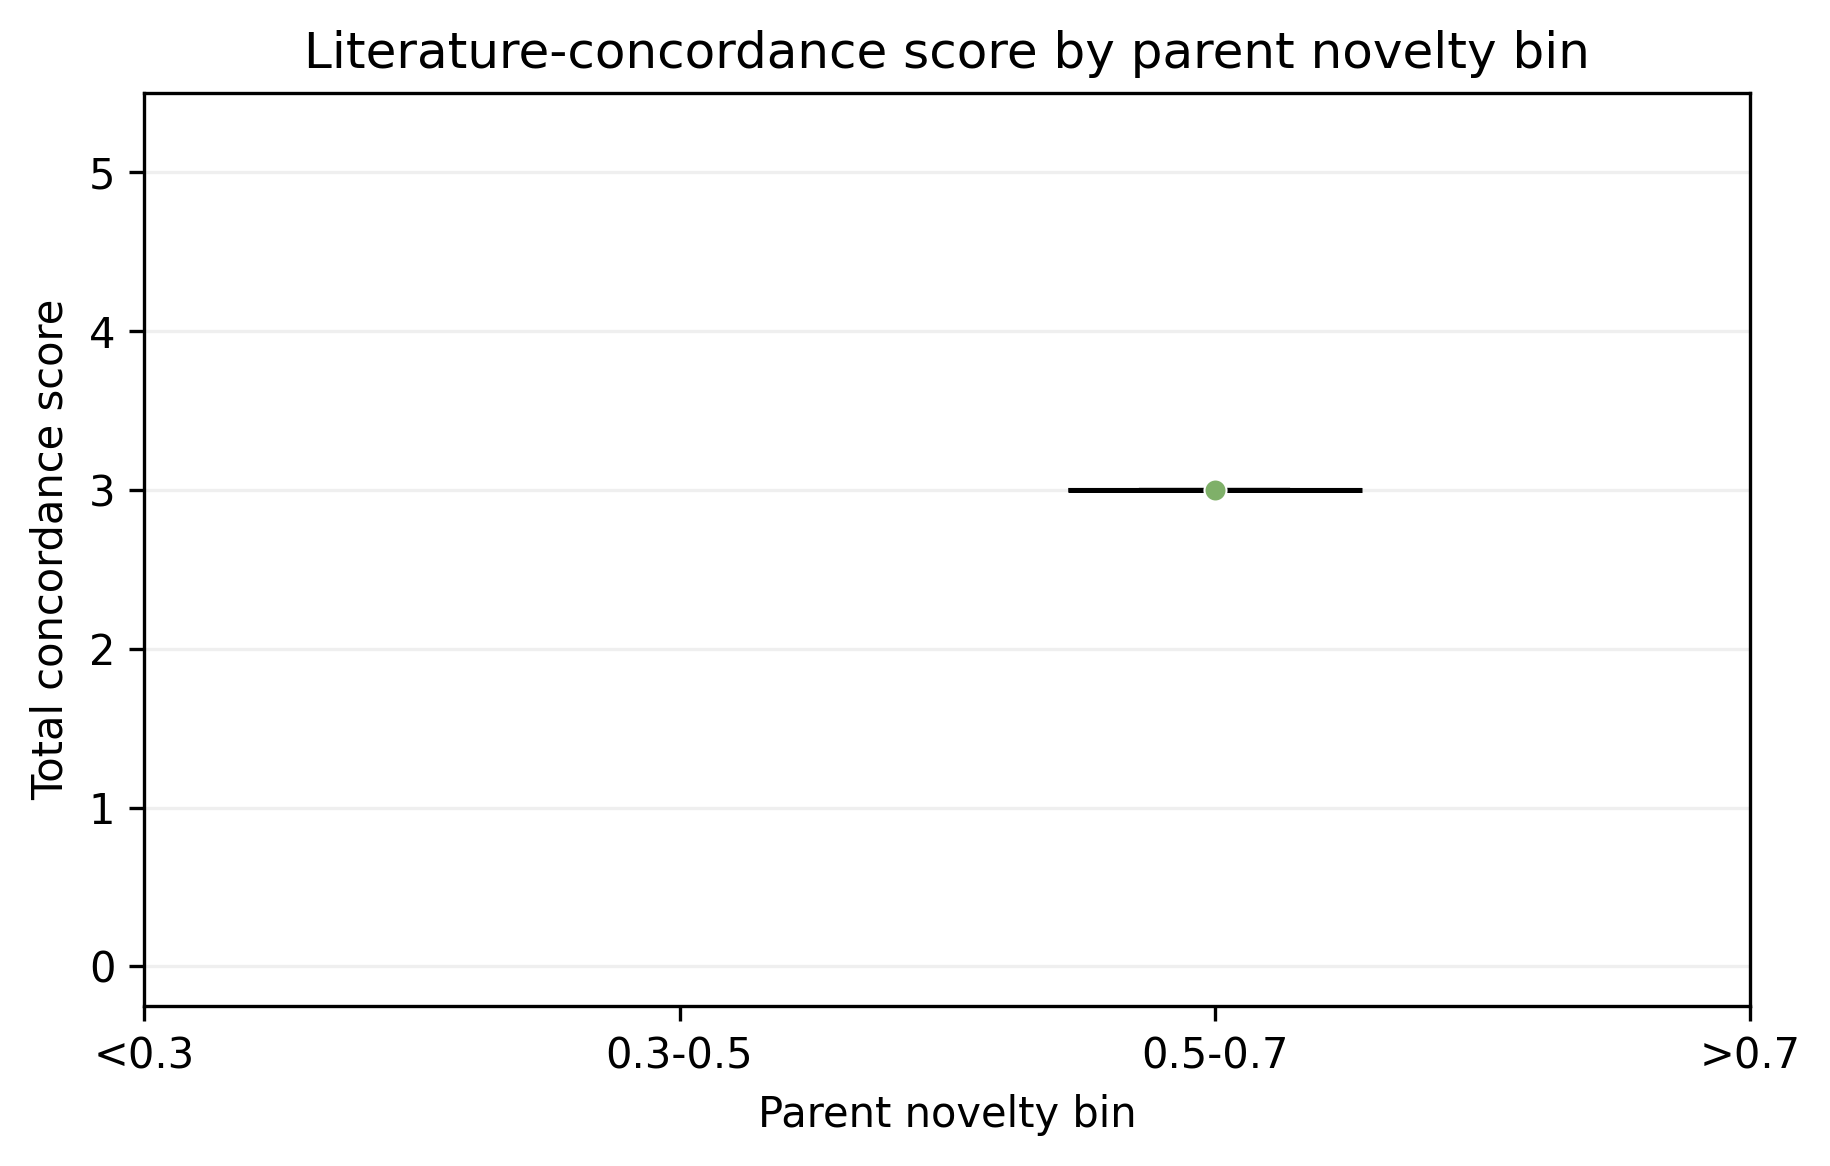
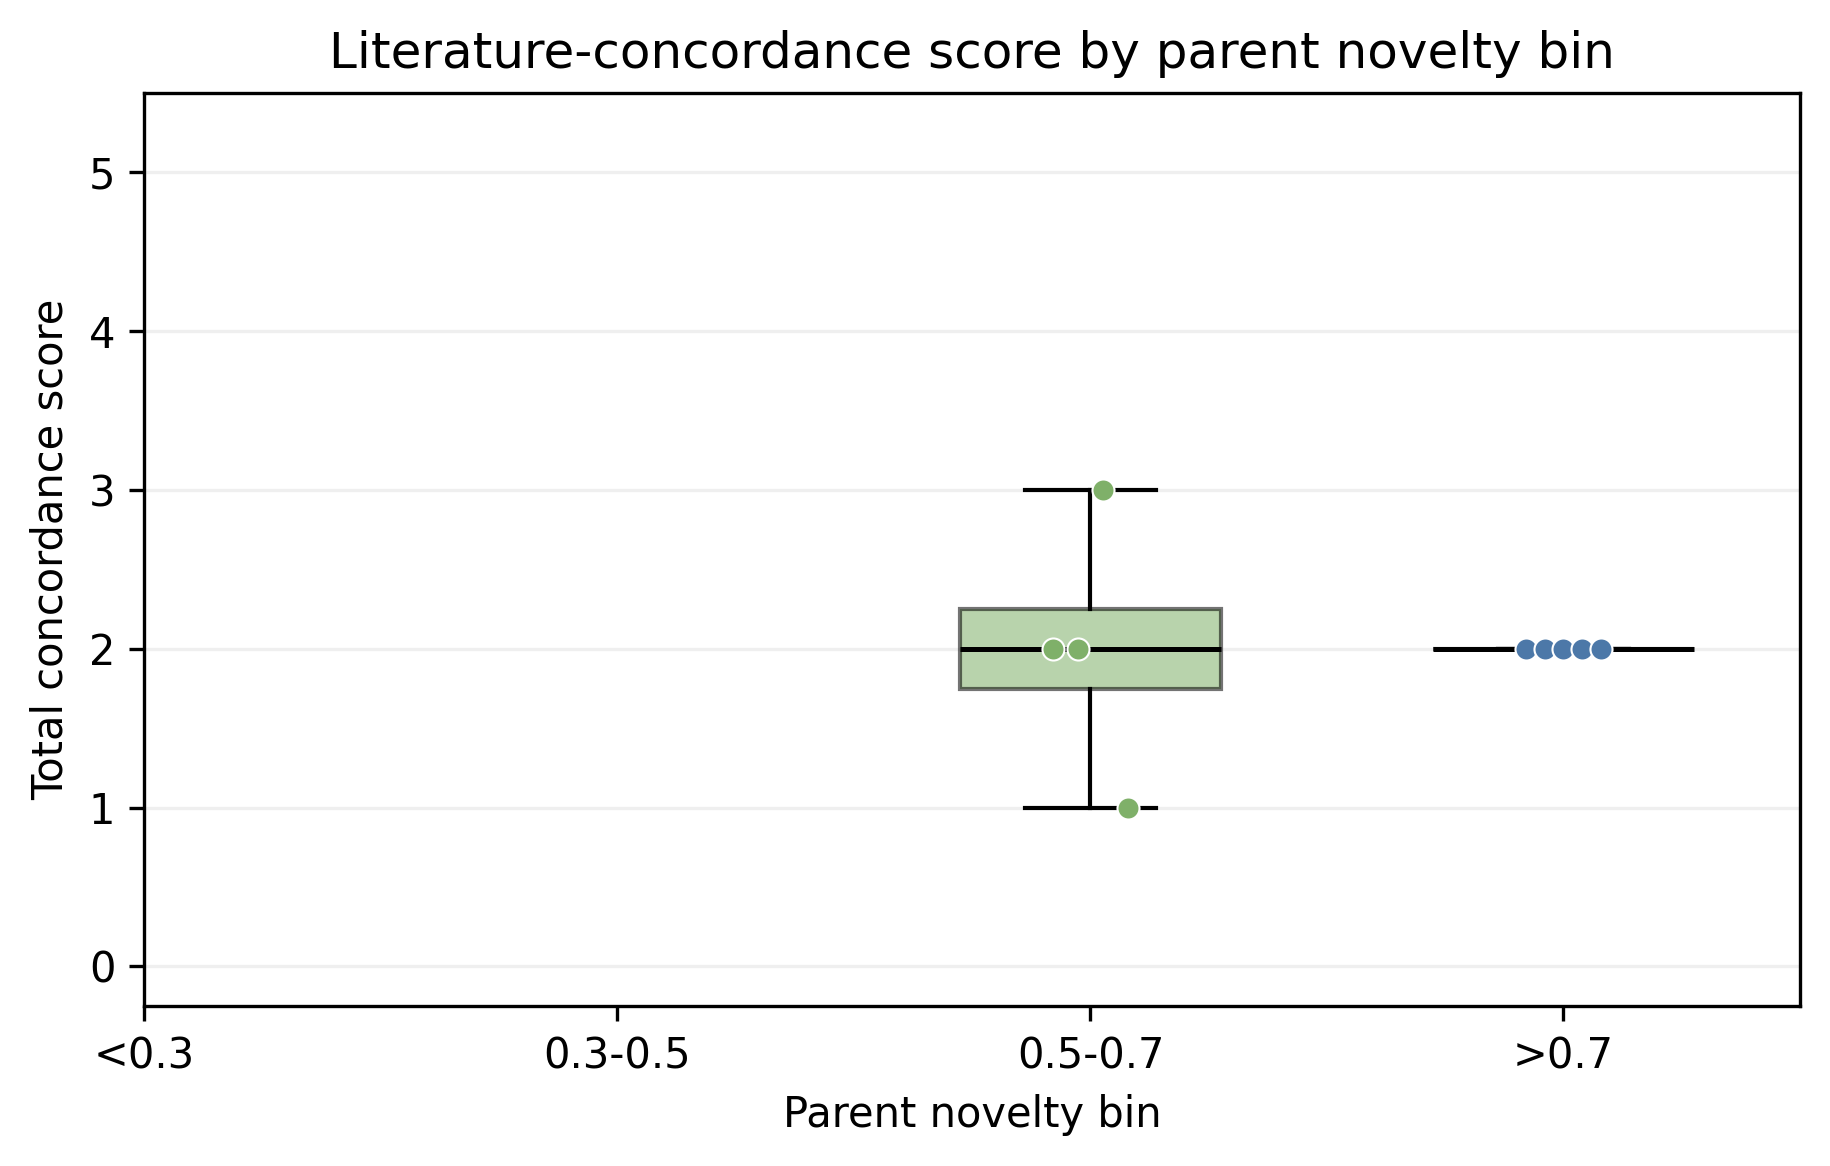
cluster pilot: low-sim completion summary and merged audit outputs

diff --git a/scripts/check_chembl_cluster_pilot_shards.py b/scripts/check_chembl_cluster_pilot_shards.py
@@ -61,7 +61,8 @@ def _write_outputs(pilot_root: Path, status: dict[str, Any]) -> tuple[Path, Path
         f"- Full panel size: `{status['full_panel_size']}`",
         f"- Main merged completed parents: `{status['main_completed_count']}`",
         f"- Unique completed parents across shards: `{status['unique_shard_completed_count']}`",
-        f"- Remaining incomplete parents: `{status['remaining_incomplete_count']}`",
+        f"- Remaining incomplete parents after shard completion: `{status['remaining_incomplete_count']}`",
+        f"- Remaining unmerged parents in main root: `{status['remaining_unmerged_count']}`",
         "",
         "## Main pilot root",
         "",
@@ -134,7 +135,8 @@ def build_status(pilot_root: Path) -> dict[str, Any]:
         if len(shard_names) > 1
     }
     main_ids = sorted(main_reports)
-    remaining = [mol_id for mol_id in full_panel_ids if mol_id not in main_reports]
+    remaining_after_shards = [mol_id for mol_id in full_panel_ids if mol_id not in shard_completed_union]
+    remaining_unmerged = [mol_id for mol_id in full_panel_ids if mol_id not in main_reports]
 
     status = {
         "pilot_root": str(pilot_root.resolve()),
@@ -144,8 +146,12 @@ def build_status(pilot_root: Path) -> dict[str, Any]:
         "main_completed_parent_ids": main_ids,
         "unique_shard_completed_count": len(shard_completed_union),
         "unique_shard_completed_parent_ids": sorted(shard_completed_union),
-        "remaining_incomplete_count": len(remaining),
-        "remaining_incomplete_parent_ids": remaining,
+        # This is the operationally relevant count while shard jobs are active.
+        "remaining_incomplete_count": len(remaining_after_shards),
+        "remaining_incomplete_parent_ids": remaining_after_shards,
+        # This tracks merge lag between shard outputs and the main pilot root.
+        "remaining_unmerged_count": len(remaining_unmerged),
+        "remaining_unmerged_parent_ids": remaining_unmerged,
         "duplicate_completed_parents_across_shards": duplicate_completions,
         "duplicate_audit_partial_dir": (
             str((pilot_root / "audit_partial_b0507").resolve())
@@ -183,6 +189,7 @@ def main() -> int:
     print(f"  - main_completed_count: {status['main_completed_count']}")
     print(f"  - unique_shard_completed_count: {status['unique_shard_completed_count']}")
     print(f"  - remaining_incomplete_count: {status['remaining_incomplete_count']}")
+    print(f"  - remaining_unmerged_count: {status['remaining_unmerged_count']}")
     print(f"  - main_completed_parent_ids: {status['main_completed_parent_ids']}")
     for shard_name in sorted(status["shards"]):
         shard = status["shards"][shard_name]

diff --git a/reports/lead_opt_literature_audit_chembl/cluster_pilot/summaries/lower_similarity_completion_summary.md b/reports/lead_opt_literature_audit_chembl/cluster_pilot/summaries/lower_similarity_completion_summary.md
@@ -1,0 +1,118 @@
+# Lower-Similarity Completion Summary
+
+This summary covers the scientifically critical lower-similarity portion of the existing ChEMBL Cluster pilot. It is based on the merged pilot outputs under [generation/run/lead_reports](/Users/harisreedeth/Desktop/Ogoing.hERGBench/hERGBench/reports/lead_opt_literature_audit_chembl/cluster_pilot/generation/run/lead_reports) plus the merged audit outputs under [tables](/Users/harisreedeth/Desktop/Ogoing.hERGBench/hERGBench/reports/lead_opt_literature_audit_chembl/cluster_pilot/tables).
+
+## Scope
+
+- Dataset: `chembl`
+- Split: `cluster`
+- Threshold: `0.710`
+- Parent panel: existing 20-parent blocker panel only
+- Targeted low-similarity bins in this phase:
+  - `<0.3`
+  - `0.3-0.5`
+
+The already-known early successful parent [`a20f74e3f8ebfea51b2477906e00b06b1ca1e4b7`](/Users/harisreedeth/Desktop/Ogoing.hERGBench/hERGBench/reports/lead_opt_literature_audit_chembl/cluster_pilot/generation/run/lead_reports/a20f74e3f8ebfea51b2477906e00b06b1ca1e4b7/report.md) belongs to `0.5-0.7`, not to either lower-similarity bin.
+
+## Targeted Lower-Similarity Parents
+
+### `<0.3`
+
+- `b53d5d72d6a789017275eb7570a60c2fbb91feb8`
+- `fed009dbfb11625a971ea56dc6327d725e225cf5`
+- `cb5c22de0ccdcf673936f4c8d07dfbd3f9a4aebb`
+- `6dccdc2a597b0cc6a47a610c20ceb29232c73608`
+- `86fcc24492f4309bcb809ceb104d043f0175ba1b`
+
+### `0.3-0.5`
+
+- `f1e739712c4f137b4f35c4a464d73a86510c2f4b`
+- `bc119b6e181cb262689f3789e09ebd2d7fe97cc6`
+- `32b0f4dc11d720f6d562a905d73c461574baf552`
+- `637679562b622db5d3e779df2b670d634e37618d`
+- `f9b723494f62a056148857a25337c48eaa4638ef`
+
+## Completion Status
+
+Both lower-similarity shards are now complete.
+
+- `<0.3`: attempted `5`, completed `5`
+- `0.3-0.5`: attempted `5`, completed `5`
+
+No partial parent directories remained in either shard at completion.
+
+## Outcome Counts By Similarity Bin
+
+### `<0.3`
+
+- Tier 1: `0`
+- Tier 2: `0`
+- Tier 3: `0`
+- Tier 4 / diagnostic-only: `5`
+- No-hit: `0`
+
+### `0.3-0.5`
+
+- Tier 1: `0`
+- Tier 2: `0`
+- Tier 3: `0`
+- Tier 4 / diagnostic-only: `5`
+- No-hit: `0`
+
+### Higher-similarity comparison
+
+- `0.5-0.7`: Tier 1 `4`, Tier 2 `0`, Tier 3 `0`, Tier 4 `1`
+- `>0.7`: Tier 1 `5`, Tier 2 `0`, Tier 3 `0`, Tier 4 `0`
+
+## Scaffold-Preserving Successful Candidates
+
+- `<0.3`: none found in the reportable Tier 1-3 cohort
+- `0.3-0.5`: none found in the reportable Tier 1-3 cohort
+- `0.5-0.7`: yes; the retained best-per-parent successful candidates were scaffold-preserving
+- `>0.7`: yes; the retained best-per-parent successful candidates were scaffold-preserving
+
+Important interpretation boundary:
+- this does **not** mean the low-similarity search space contained no scaffold-preserving molecules at all
+- it means none of the completed low-similarity parents yielded surviving Tier 1-3 best-per-parent candidates under the existing scientific filters and audit cohort
+
+## Literature-Concordance Comparison
+
+The merged audit summary shows:
+
+- `<0.3`: no retained Tier 1-3 best-per-parent candidates; no populated concordance row
+- `0.3-0.5`: no retained Tier 1-3 best-per-parent candidates; no populated concordance row
+- `0.5-0.7`: `4` best-per-parent retained candidates, mean concordance score `2.0`, literature-concordant overall `25%`
+- `>0.7`: `5` best-per-parent retained candidates, mean concordance score `2.0`, literature-concordant overall `0%`
+
+So the low-similarity bins do not merely have worse concordance scores. They fail earlier: they do not produce reportable Tier 1-3 best-per-parent survivors at all in this 20-parent pilot.
+
+## Decision
+
+The novelty-conditioned actionability question is now answerable at a coarse decision level.
+
+Answer:
+- yes, actionability appears to collapse below `0.5` train-similarity in this ChEMBL Cluster pilot
+- all `10/10` completed low-similarity parents ended as Tier 4 diagnostic-only
+- meanwhile the higher-similarity bins produced `9` reportable Tier 1 flips across `10` parents
+
+What is **not** yet answerable well:
+- a within-success comparison of scaffold-preserving success rates across all four bins
+- a within-success comparison of literature-concordance in the two lower-similarity bins
+
+Reason:
+- both low-similarity bins contributed `0` retained Tier 1-3 best-per-parent candidates to the audit cohort
+
+## Recommendation
+
+Do **not** expand to all splits yet.
+
+Recommended next step:
+- stay on `cluster`
+- selectively expand the lower-similarity regime before any all-split replication
+- add another `5` parents in `<0.3`
+- add another `5` parents in `0.3-0.5`
+
+Rationale:
+- the current 20-parent pilot is sufficient to show a likely low-similarity actionability collapse
+- it is not yet sufficient to characterize *how* the surviving low-similarity successes, if any, differ in scaffold preservation or literature concordance
+- scarcity itself is already an informative result, but a larger low-similarity cluster panel is needed before moving to Scaffold or Random replication

diff --git a/reports/lead_opt_literature_audit_chembl/cluster_pilot/summaries/shard_status.md b/reports/lead_opt_literature_audit_chembl/cluster_pilot/summaries/shard_status.md
@@ -1,51 +1,51 @@
 # ChEMBL Cluster Pilot Shard Status
 
-- Pilot root: `/Users/harisreedeth/Desktop/Ogoing.hERGBench/hERGBench/reports/lead_opt_literature_audit_chembl/cluster_pilot`
+- Pilot root: `/workspace/hERGBench/reports/lead_opt_literature_audit_chembl/cluster_pilot`
 - Full panel size: `20`
 - Main merged completed parents: `1`
-- Unique completed parents across shards: `1`
+- Unique completed parents across shards: `20`
 - Remaining incomplete parents: `19`
 
 ## Main pilot root
 
 - Completed parent ids: `a20f74e3f8ebfea51b2477906e00b06b1ca1e4b7`
-- Stale duplicate audit subtree present: `/Users/harisreedeth/Desktop/Ogoing.hERGBench/hERGBench/reports/lead_opt_literature_audit_chembl/cluster_pilot/audit_partial_b0507`
+- Stale duplicate audit subtree present: `/workspace/hERGBench/reports/lead_opt_literature_audit_chembl/cluster_pilot/audit_partial_b0507`
 
 ## Shards
 
 ### b0305
 
 - Panel size: `5`
-- Completed: `0`
-- Missing: `5`
-- Completed parent ids: `none`
-- Missing parent ids: `f1e739712c4f137b4f35c4a464d73a86510c2f4b, bc119b6e181cb262689f3789e09ebd2d7fe97cc6, 32b0f4dc11d720f6d562a905d73c461574baf552, 637679562b622db5d3e779df2b670d634e37618d, f9b723494f62a056148857a25337c48eaa4638ef`
+- Completed: `5`
+- Missing: `0`
+- Completed parent ids: `32b0f4dc11d720f6d562a905d73c461574baf552, 637679562b622db5d3e779df2b670d634e37618d, bc119b6e181cb262689f3789e09ebd2d7fe97cc6, f1e739712c4f137b4f35c4a464d73a86510c2f4b, f9b723494f62a056148857a25337c48eaa4638ef`
+- Missing parent ids: `none`
 - Partial parent dirs without report.json: `none`
 
 ### b0507
 
 - Panel size: `5`
-- Completed: `1`
-- Missing: `4`
-- Completed parent ids: `a20f74e3f8ebfea51b2477906e00b06b1ca1e4b7`
-- Missing parent ids: `bedb61b76375e97d9de140e8a85defc38b36e6ec, 28ab133eb0cab0600a71e8011ffa8cb59006af6e, 0f56b05bdc40933c25003dc7a17eb6abdb77d1e9, 0af869741c2c90b24b129daa70ac5d88e63f5269`
+- Completed: `5`
+- Missing: `0`
+- Completed parent ids: `0af869741c2c90b24b129daa70ac5d88e63f5269, 0f56b05bdc40933c25003dc7a17eb6abdb77d1e9, 28ab133eb0cab0600a71e8011ffa8cb59006af6e, a20f74e3f8ebfea51b2477906e00b06b1ca1e4b7, bedb61b76375e97d9de140e8a85defc38b36e6ec`
+- Missing parent ids: `none`
 - Partial parent dirs without report.json: `none`
 
 ### gt07
 
 - Panel size: `5`
-- Completed: `0`
-- Missing: `5`
-- Completed parent ids: `none`
-- Missing parent ids: `6eb82aa716e9aaeb464acf80ea5156b15a44f160, 527ee3e0a48b385d795ee738fd1037a5b6cdcfe5, c9d5fe643178cae91655a380b086635ed528f4f6, 6d8bb92d758e8206cf47eef14306472e5a43b556, 8c0230bad0126918fc2bea5c36e0ab5c09c59b30`
+- Completed: `5`
+- Missing: `0`
+- Completed parent ids: `527ee3e0a48b385d795ee738fd1037a5b6cdcfe5, 6d8bb92d758e8206cf47eef14306472e5a43b556, 6eb82aa716e9aaeb464acf80ea5156b15a44f160, 8c0230bad0126918fc2bea5c36e0ab5c09c59b30, c9d5fe643178cae91655a380b086635ed528f4f6`
+- Missing parent ids: `none`
 - Partial parent dirs without report.json: `none`
 
 ### lt03
 
 - Panel size: `5`
-- Completed: `0`
-- Missing: `5`
-- Completed parent ids: `none`
-- Missing parent ids: `b53d5d72d6a789017275eb7570a60c2fbb91feb8, fed009dbfb11625a971ea56dc6327d725e225cf5, cb5c22de0ccdcf673936f4c8d07dfbd3f9a4aebb, 6dccdc2a597b0cc6a47a610c20ceb29232c73608, 86fcc24492f4309bcb809ceb104d043f0175ba1b`
+- Completed: `5`
+- Missing: `0`
+- Completed parent ids: `6dccdc2a597b0cc6a47a610c20ceb29232c73608, 86fcc24492f4309bcb809ceb104d043f0175ba1b, b53d5d72d6a789017275eb7570a60c2fbb91feb8, cb5c22de0ccdcf673936f4c8d07dfbd3f9a4aebb, fed009dbfb11625a971ea56dc6327d725e225cf5`
+- Missing parent ids: `none`
 - Partial parent dirs without report.json: `none`
 

diff --git a/reports/lead_opt_literature_audit_chembl/cluster_pilot/summaries/shard_merge_summary.md b/reports/lead_opt_literature_audit_chembl/cluster_pilot/summaries/shard_merge_summary.md
@@ -1,17 +1,39 @@
 # ChEMBL Cluster Pilot Shard Merge
 
-- Pilot root: `/Users/harisreedeth/Desktop/Ogoing.hERGBench/hERGBench/reports/lead_opt_literature_audit_chembl/cluster_pilot`
+- Pilot root: `/workspace/hERGBench/reports/lead_opt_literature_audit_chembl/cluster_pilot`
 - Dry run: `False`
-- Copied completed parent dirs: `0`
+- Copied completed parent dirs: `19`
 - Skipped identical already-merged parent dirs: `1`
 - Ignored incomplete parent dirs: `0`
 - Conflicts: `0`
 
 ## Consistency
 
-- Main completed count: `1`
-- Unique completed across shards: `1`
+- Main completed count: `20`
+- Unique completed across shards: `20`
 - Main covers all completed shard reports: `True`
+
+## Copied
+
+- `32b0f4dc11d720f6d562a905d73c461574baf552` from `b0305`
+- `637679562b622db5d3e779df2b670d634e37618d` from `b0305`
+- `bc119b6e181cb262689f3789e09ebd2d7fe97cc6` from `b0305`
+- `f1e739712c4f137b4f35c4a464d73a86510c2f4b` from `b0305`
+- `f9b723494f62a056148857a25337c48eaa4638ef` from `b0305`
+- `0af869741c2c90b24b129daa70ac5d88e63f5269` from `b0507`
+- `0f56b05bdc40933c25003dc7a17eb6abdb77d1e9` from `b0507`
+- `28ab133eb0cab0600a71e8011ffa8cb59006af6e` from `b0507`
+- `bedb61b76375e97d9de140e8a85defc38b36e6ec` from `b0507`
+- `527ee3e0a48b385d795ee738fd1037a5b6cdcfe5` from `gt07`
+- `6d8bb92d758e8206cf47eef14306472e5a43b556` from `gt07`
+- `6eb82aa716e9aaeb464acf80ea5156b15a44f160` from `gt07`
+- `8c0230bad0126918fc2bea5c36e0ab5c09c59b30` from `gt07`
+- `c9d5fe643178cae91655a380b086635ed528f4f6` from `gt07`
+- `6dccdc2a597b0cc6a47a610c20ceb29232c73608` from `lt03`
+- `86fcc24492f4309bcb809ceb104d043f0175ba1b` from `lt03`
+- `b53d5d72d6a789017275eb7570a60c2fbb91feb8` from `lt03`
+- `cb5c22de0ccdcf673936f4c8d07dfbd3f9a4aebb` from `lt03`
+- `fed009dbfb11625a971ea56dc6327d725e225cf5` from `lt03`
 
 ## Skipped Existing
 
